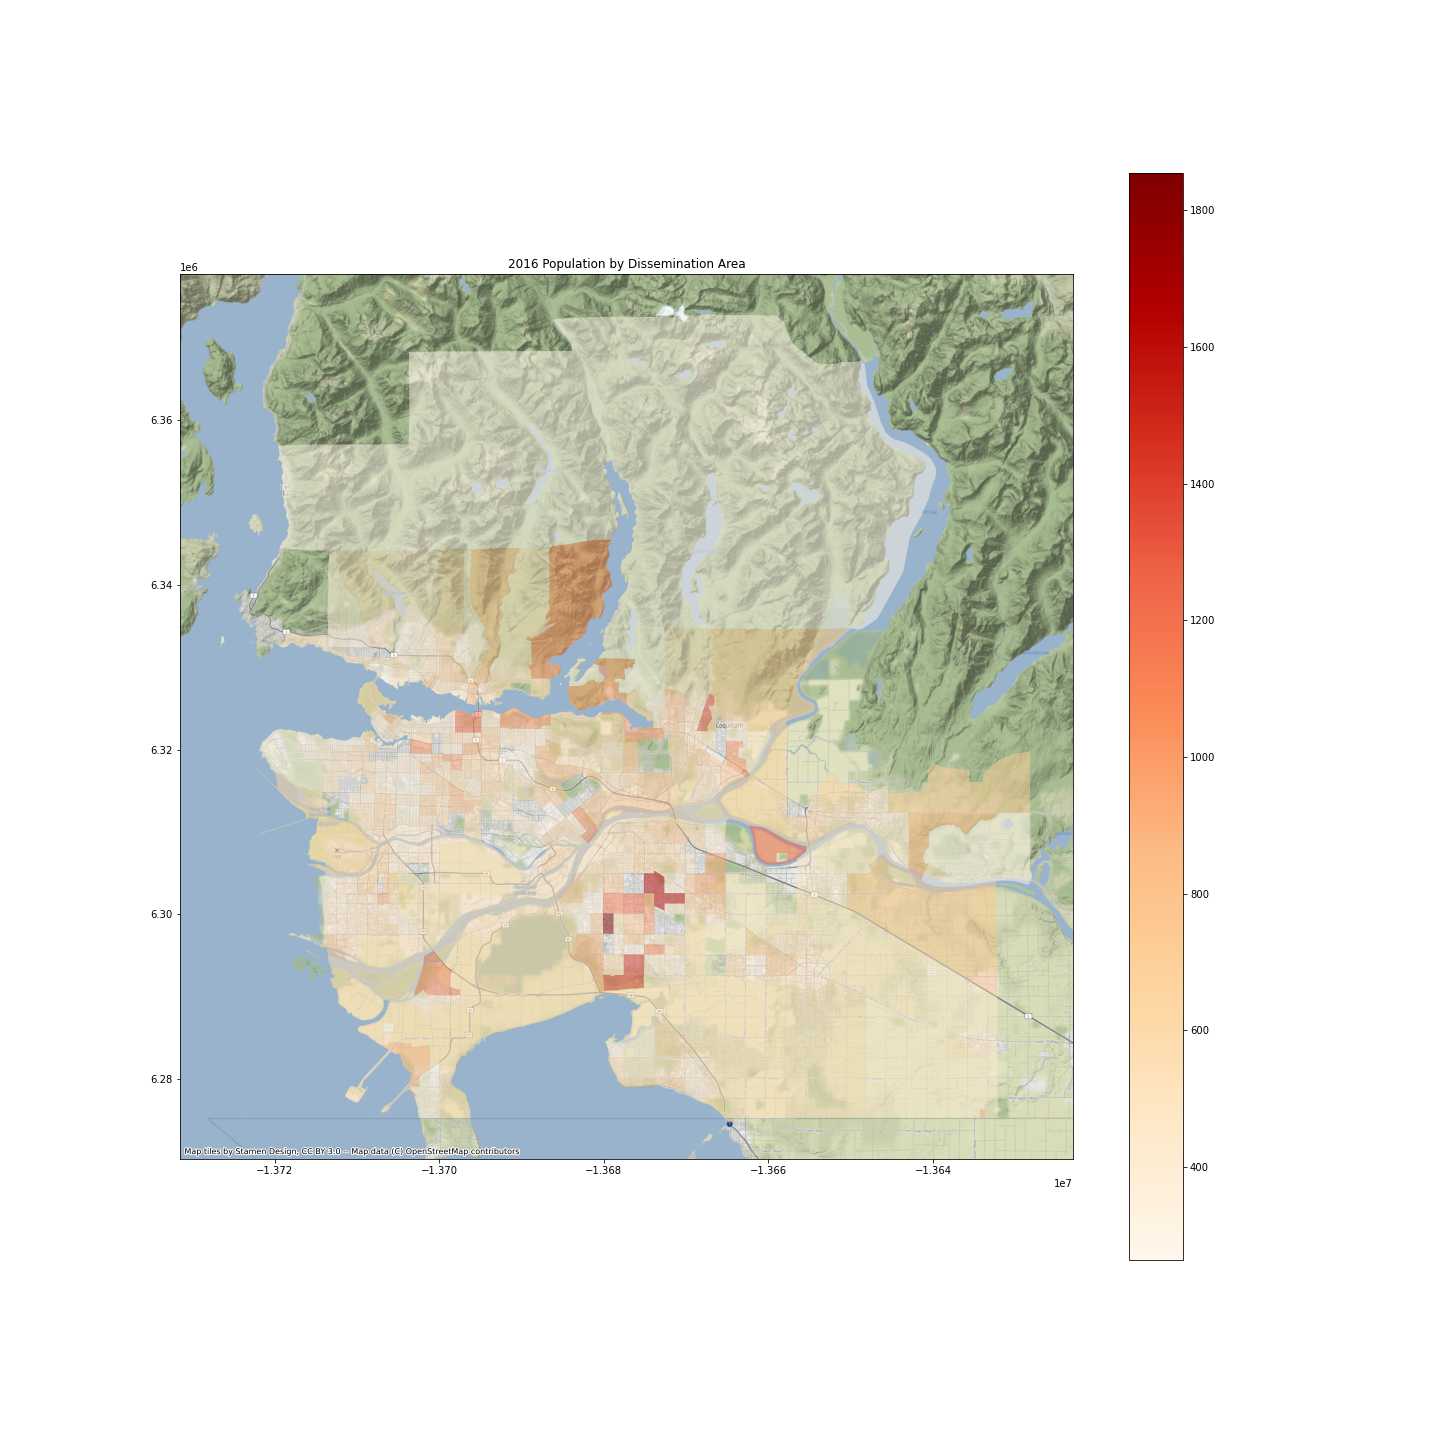
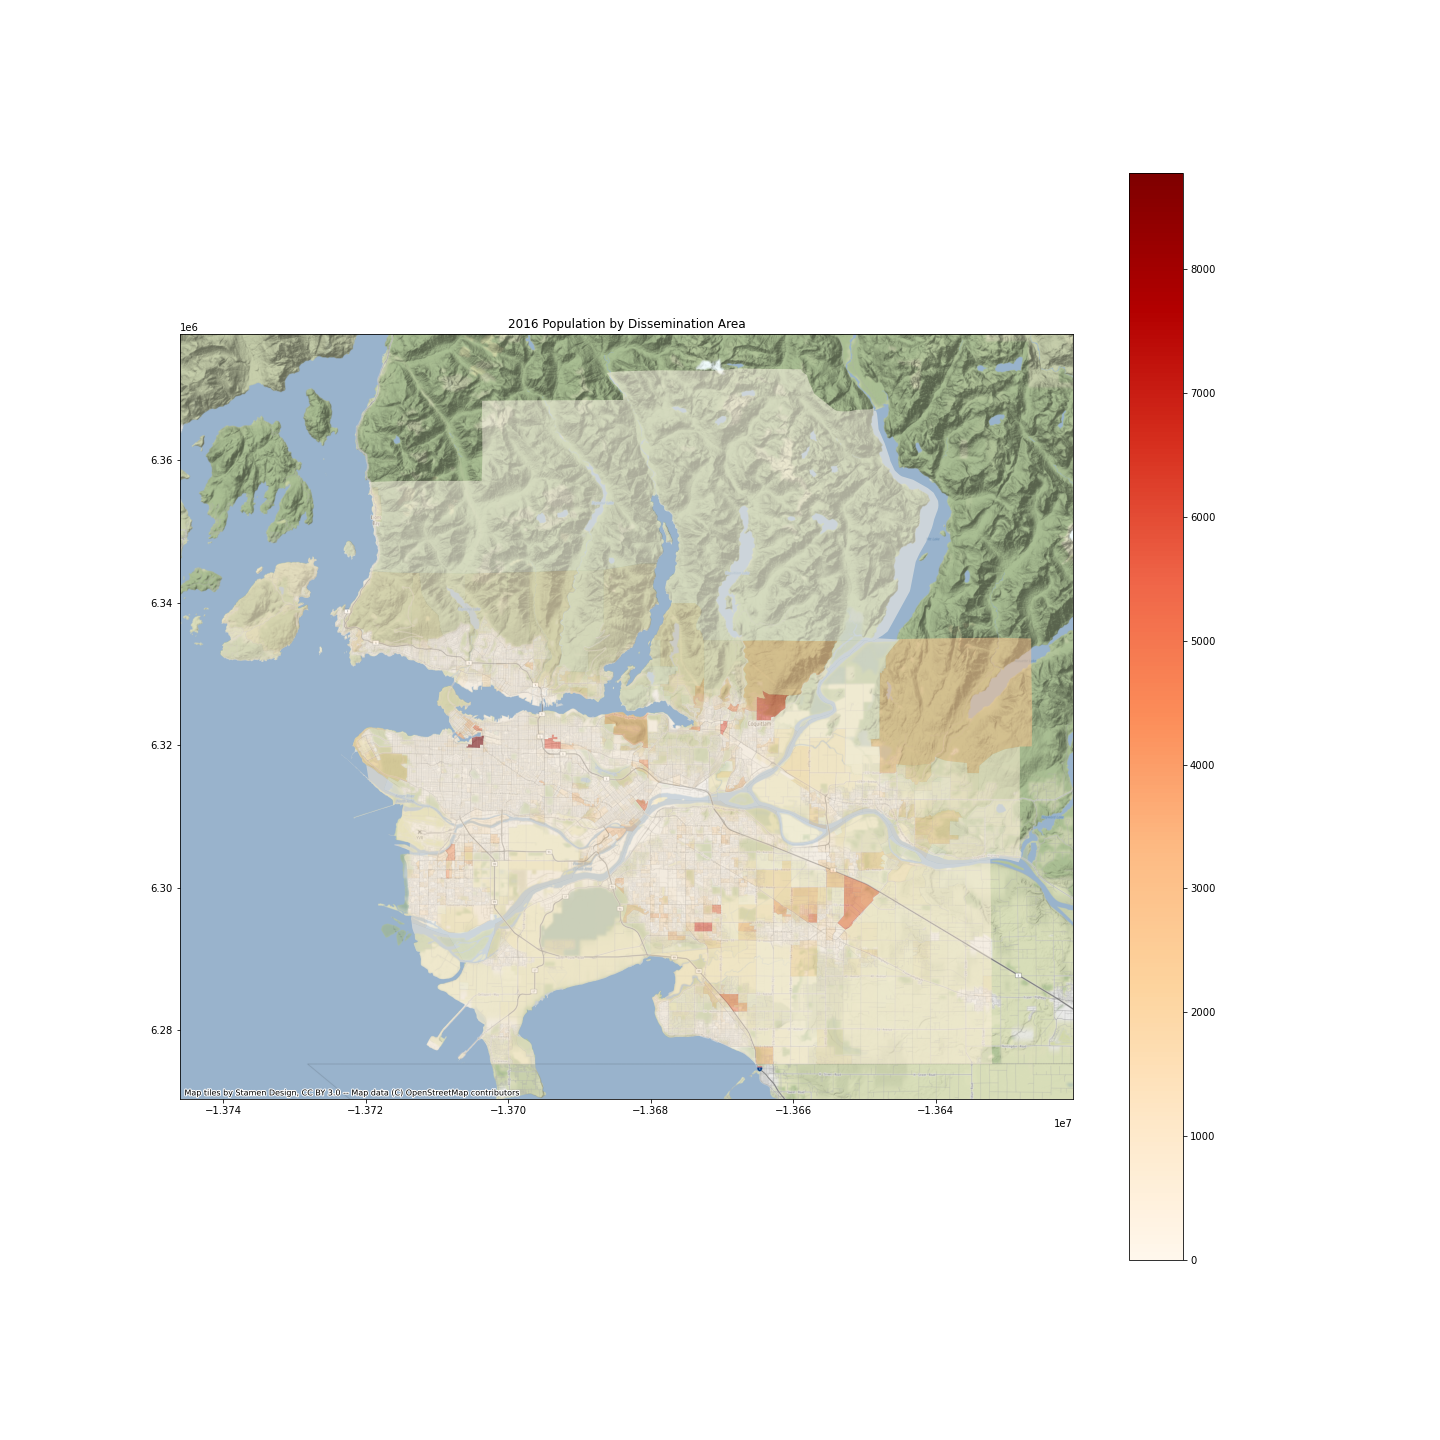
merge of census data with map cleaned

Changed region(s): [[0.125, 0.1562, 0.75, 0.8125], [0.8125, 0.6875, 0.8438, 0.7188]]

diff --git a/Census_reading.py b/Census_reading.py
@@ -6,6 +6,7 @@ Created on Mon Jun 15 11:58:54 2020
 """
 import geopandas 
 import os 
+import numpy as np
 cwd = os.path.dirname(os.getcwd())
 os.chdir(cwd)
 data_dir = os.path.join(os.getcwd(), "Census")
@@ -14,21 +15,27 @@ data_version = "20200606"
 # Federal Electoral Districts
 file = geopandas.read_file(os.path.join(data_dir, "lfed000b16a_e","lfed000b16a_e.shp"))
 BC_FED = file.loc[file["PRNAME"]=='British Columbia / Colombie-Britannique']
+print(f"There are {len(BC_FED.index)} federal electoral districts in British Columbia.")
+
 BC_FED.to_file(os.path.join(os.getcwd(), "Census", "BC_FED.shp"))
 
 # Census Subdivisions 
 file = geopandas.read_file(os.path.join(data_dir, "lcsd000b16a_e","lcsd000b16a_e.shp"))
 BC_CSD = file.loc[file["PRNAME"]=='British Columbia / Colombie-Britannique']
+print(f"There are {len(BC_CSD.index)} census subdivisions in British Columbia.")
+
 BC_CSD.to_file(os.path.join(os.getcwd(), "Census", "BC_CSD.shp"))
 
 # Dissemination Areas
 file = geopandas.read_file(os.path.join(data_dir, "lda_000b16a_e","lda_000b16a_e.shp"))
 BC_DA = file.loc[file["PRNAME"]=='British Columbia / Colombie-Britannique']
+print(f"There are {len(BC_DA.index)} dissemination areas in British Columbia.")
+
 BC_DA.to_file(os.path.join(os.getcwd(), "Census", "BC_DA.shp"))
 
 GVA_DA = BC_DA.loc[BC_DA["CDNAME"] == "Greater Vancouver"]##Greater Vancouver Area
-GVA_DA.DAUID.max()
-GVA_DA.DAUID.min()
+print(f"There are {len(GVA_DA.index)} dissemination areas in Greater Vancouver.")
+
 
 #Read DA level data
 from dbfread import DBF
@@ -66,7 +73,7 @@ header = data_table.columns
 data_table.columns = ["vn" + str(col) for col in range(len(data_table.columns))]
 
 GVA_DA_header = GVA_DA.columns
-GVA_DA = GVA_DA.merge(data_table, left_on = "ADAUID", right_on = "vn0")
+GVA_DA = GVA_DA.merge(data_table, left_on = "DAUID", right_on = "vn0")
 
 header = list(GVA_DA_header) + list(header)
 
@@ -76,14 +83,35 @@ for column_name in GVA_DA.columns[29:]:
     GVA_DA[[column_name]] = GVA_DA[[column_name]].astype("float64")
 
 ##Mapping DAs
+###Create base map
+GVA_DA = GVA_DA.to_crs(epsg=3857)
+GVA_base = GVA_DA.iloc[:, 0: 28]
+
+###Population 
 import contextily as ctx
 import matplotlib.pyplot as plt
-GVA_DA = GVA_DA.to_crs(epsg=3857)
-GVA_DA.plot()
-GVA_DA_ax = GVA_DA.plot(figsize=(20, 20), alpha=0.5, column="vn13", cmap = "OrRd", legend = True)
-ctx.add_basemap(GVA_DA_ax, zoom=12)
+GVA_DA_pop = pd.concat([GVA_base, GVA_DA[["vn13"]]], axis = 1)
+GVA_DA_pop_ax = GVA_DA_pop.plot(figsize=(20, 20), alpha=0.5, column="vn13", cmap = "OrRd", legend = True)
+ctx.add_basemap(GVA_DA_pop_ax, zoom=12)
 plt.title("2016 Population by Dissemination Area")
 plt.savefig(os.path.join(os.getcwd(), "Vancouver_transit", "Maps", data_version,'pop2016.png'))
+
+###Population density
+GVA_DA_pop_dense = pd.concat([GVA_base, GVA_DA[["vn18"]]], axis = 1)
+GVA_DA_pop_dense = GVA_DA_pop_dense[GVA_DA_pop_dense.vn18 >= GVA_DA_pop_dense.vn18.quantile(0.9)] # Keep DAs with top 10% population densities
+GVA_DA_pop_dense_ax = GVA_DA_pop_dense.plot(figsize=(20, 20), alpha=0.5, legend = True, color = "r")
+ctx.add_basemap(GVA_DA_pop_dense_ax, zoom=12)
+plt.title("2016 Population density by Dissemination Area: Top 10%")
+plt.savefig(os.path.join(os.getcwd(), "Vancouver_transit", "Maps", data_version,'pop_dense201610pc.png'))
+print(f"The CSDs with highest number of DAs with top 10% population densities are {list(GVA_DA_pop_dense.CSDNAME.value_counts().index)[:5]}")
+
+GVA_DA_pop_dense1 = pd.concat([GVA_base, GVA_DA[["vn13", "vn19"]]], axis = 1)
+GVA_DA_pop_dense1[["pop_dense"]] = GVA_DA_pop_dense1.vn13 / GVA_DA_pop_dense1.vn19
+GVA_DA_pop_dense1.pop_dense [np.isinf(GVA_DA_pop_dense1.pop_dense) == True] = None
+GVA_DA_pop_dense1_ax = GVA_DA_pop_dense1.plot(figsize=(20, 20), alpha=0.5, column="pop_dense", cmap = "OrRd", legend = True)
+ctx.add_basemap(GVA_DA_pop_dense1_ax, zoom=12)
+plt.title("2016 Population density by Dissemination Area")
+plt.savefig(os.path.join(os.getcwd(), "Vancouver_transit", "Maps", data_version,'pop_dense2016.png'))
 
 ##Save census tables
 import json

diff --git a/Access_analysis.py b/Access_analysis.py
@@ -1,0 +1,38 @@
+# -*- coding: utf-8 -*-
+"""
+Created on Sat Jun 20 16:53:54 2020
+
+@author: kangyuwang
+"""
+
+data_version = "20200606"
+
+import os
+import re
+
+cwd = os.path.dirname(os.getcwd())
+os.chdir(cwd)
+data_dir = os.path.join(os.getcwd(), "TL_data", data_version)
+
+#Read intermediate data
+import pandas as pd
+import json
+import geopandas
+
+with open(os.path.join(os.getcwd(), "Data_Tables", data_version,'calendar.json'), "r") as calendar_outfile:
+    calendar = pd.read_json(json.load(calendar_outfile))
+
+with open(os.path.join(os.getcwd(), "Data_Tables", data_version,'calendar_dates.json'), "r") as calendar_dates_outfile:
+    calendar_dates = pd.read_json(json.load(calendar_dates_outfile))
+
+lines_gdf = geopandas.read_file(os.path.join(os.getcwd(), "Data_Tables", data_version,'lines.json'))
+
+with open(os.path.join(os.getcwd(), "Data_Tables", data_version,'routes.json'), "r") as routes_outfile:
+    routes = pd.read_json(json.load(routes_outfile))
+
+shapes_gdf = geopandas.read_file(os.path.join(os.getcwd(), "Data_Tables", data_version,'shapes.json'))
+
+filelist_fd = os.listdir(os.path.join(os.getcwd(), "Data_Tables", data_version))
+filelist = [filename for filename in filelist_fd if bool(re.match("stop_times.", filename))]
+
+filelist

diff --git a/GTFS_cleaning.py b/GTFS_cleaning.py
@@ -165,7 +165,6 @@ with open(os.path.join(os.getcwd(), "Data_Tables", data_version,'routes.json'), 
 
 shapes_gdf.to_file(os.path.join(os.getcwd(), "Data_Tables", data_version,'shapes.json'), driver="GeoJSON")
 
-# +
 ##The stop_times table is very large in size. Remove some columns and break up the file to save them in batches.
 
 n_batch = len(stop_times) // 500000
